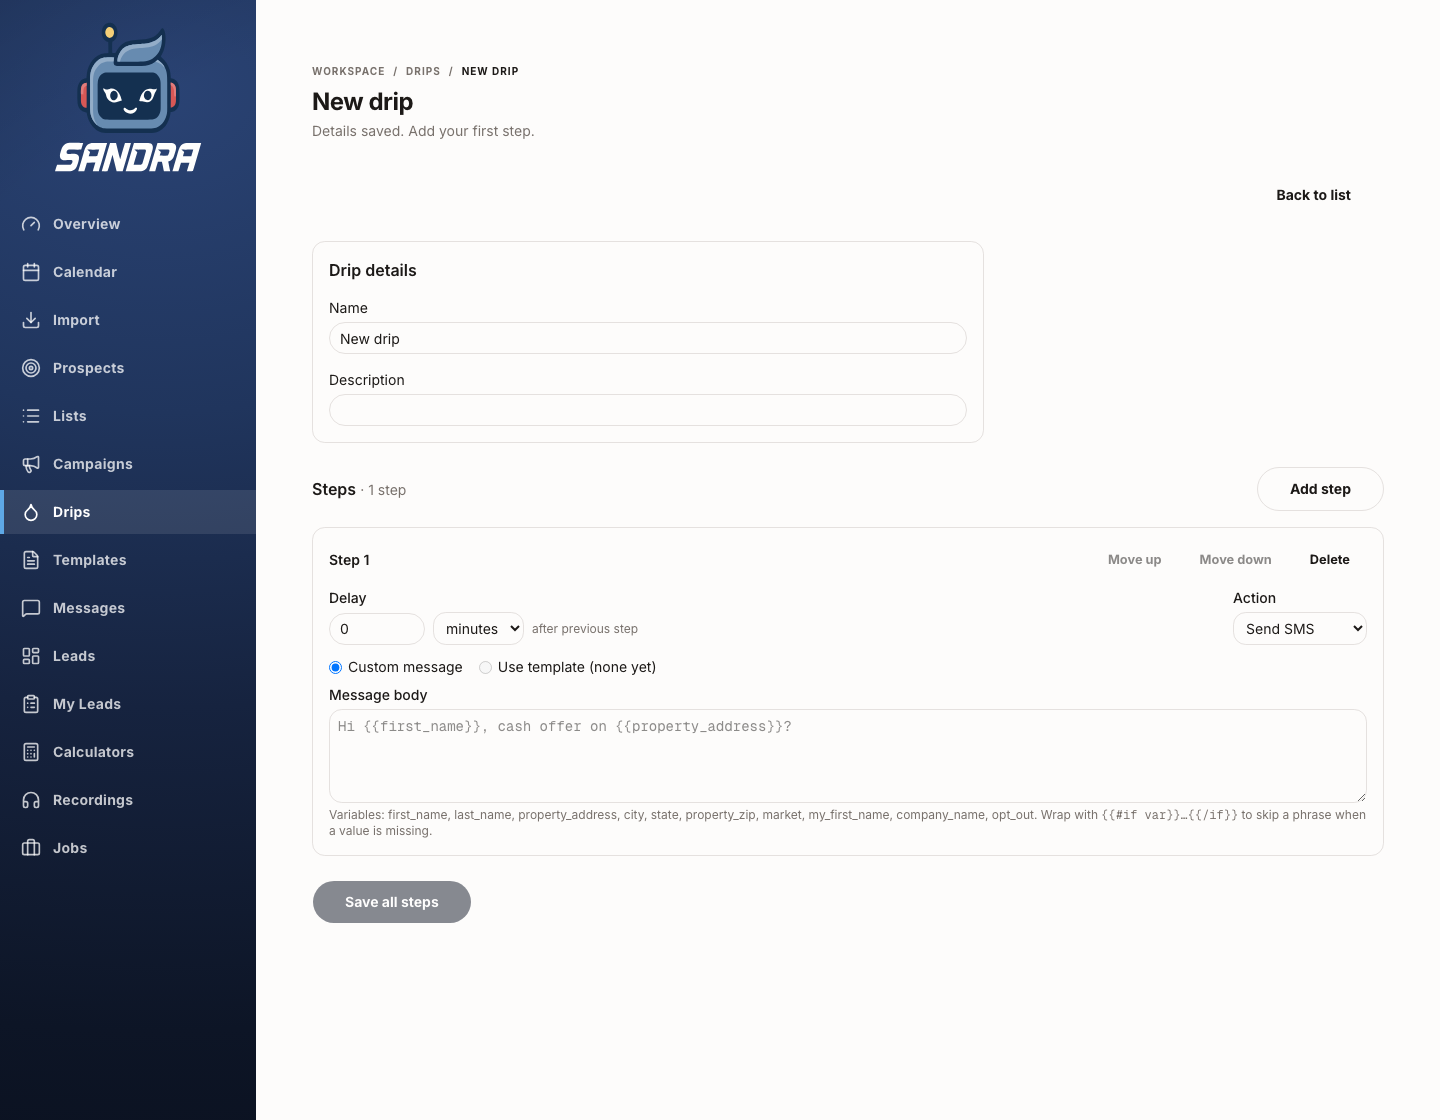
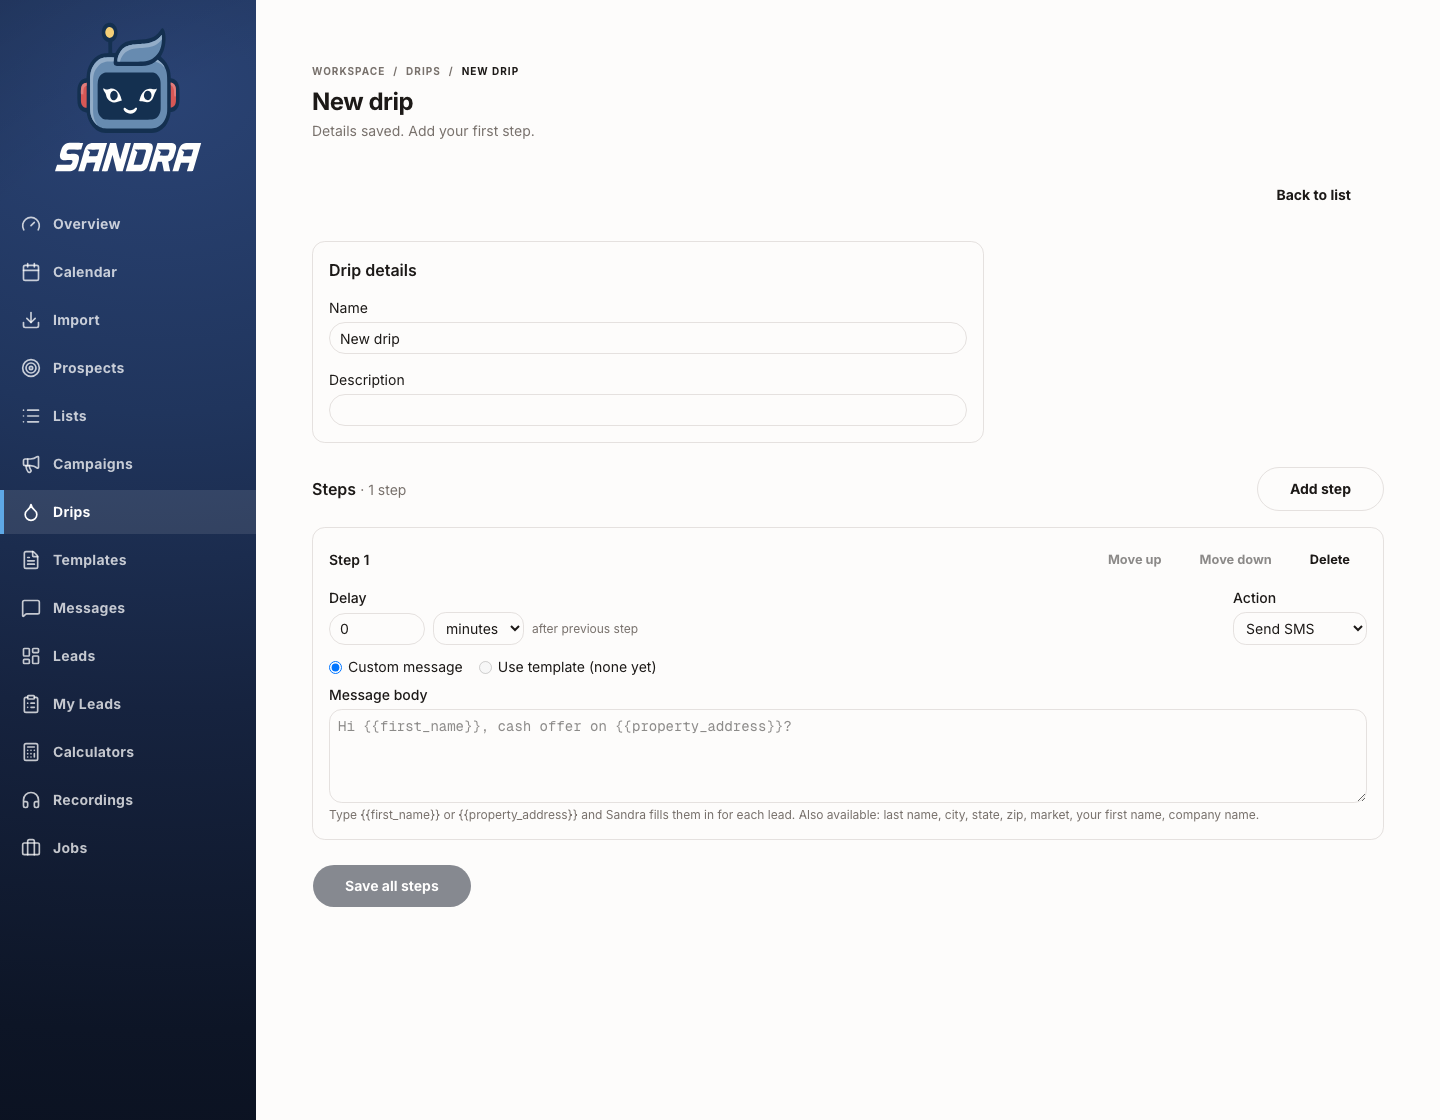
Clarify drip editor copy and new sequence header

Changed region(s): [[0.2188, 0.7188, 0.9375, 0.8438]]

diff --git a/src/app/(dashboard)/sequences/[id]/edit/editor.tsx b/src/app/(dashboard)/sequences/[id]/edit/editor.tsx
@@ -296,10 +296,9 @@ function MessageBodyEditor({
             placeholder="Hi {{first_name}}, cash offer on {{property_address}}?"
           />
           <span className="text-muted-foreground text-xs">
-            Variables: first_name, last_name, property_address, city, state,
-            property_zip, market, my_first_name, company_name, opt_out. Wrap
-            with <code>{"{{#if var}}…{{/if}}"}</code> to skip a phrase when a
-            value is missing.
+            Type {"{{first_name}}"} or {"{{property_address}}"} and Sandra fills
+            them in for each lead. Also available: last name, city, state, zip,
+            market, your first name, company name.
           </span>
         </label>
       ) : (

diff --git a/src/app/(dashboard)/sequences/[id]/edit/page.tsx b/src/app/(dashboard)/sequences/[id]/edit/page.tsx
@@ -57,7 +57,9 @@ export default async function SequenceEditPage({
         ]}
         title={result.data.name}
         description={
-          impact.total_enrolled > 0
+          isNew
+            ? "Details saved. Add your first step."
+            : impact.total_enrolled > 0
             ? `${impact.total_enrolled} lead${impact.total_enrolled === 1 ? "" : "s"} enrolled · ${impact.scheduled_next_7d} due in the next 7 days`
             : "No leads enrolled yet."
         }
